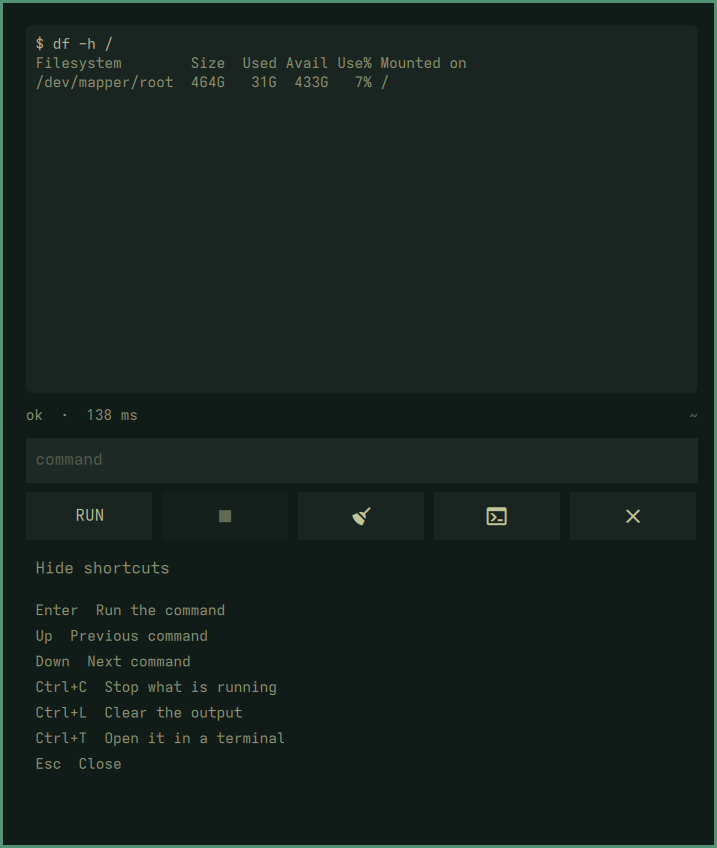
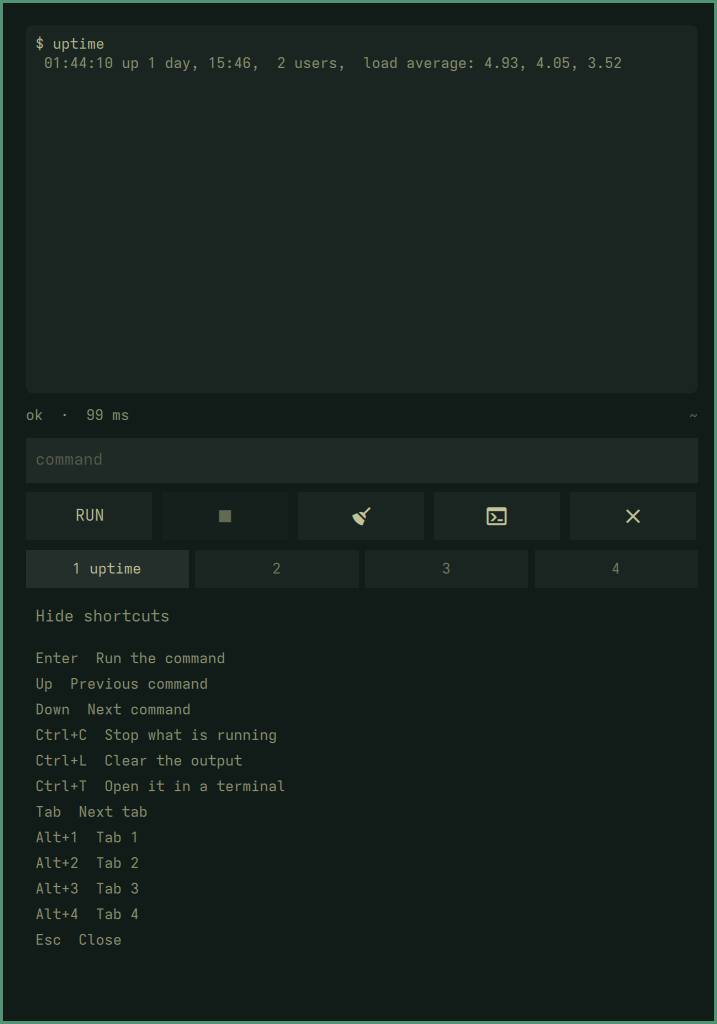
Retake the screenshots for the tab strip
Claude-Session: https://claude.ai/code/session_01NsuTX3xQbZ1pzCFMGiucjP

diff --git a/DEVELOPING.md b/DEVELOPING.md
@@ -8,8 +8,9 @@ An Omarchy shell plugin: a bar widget that runs a command and shows what it said
 id `io.github.swey-l1.bar-term`, kind `bar-widget`. Everything that executes anything is
 in the `bar-term` script; the QML only asks it for things.
 
-- `Panel.qml`: the bar widget: the icon, the command history, and the model everything
-  reads through `panel`. It *is* a `Theme.qml`, which holds palette and metrics.
+- `Panel.qml`: the bar widget: the icon, the sessions and which tab is active, and the
+  model everything reads through `panel`. It *is* a `Theme.qml`, which holds palette and
+  metrics.
 - `Pad.qml`: the popup: scrollback, prompt, keys, tab strip, hint line, key catcher.
 - `TabButton.qml`: one tab in that strip, and the three things it has to show.
 - `Bindings.qml`: `keyMap`, the single definition of every key binding.
@@ -29,7 +30,7 @@ in the `bar-term` script; the QML only asks it for things.
 ```sh
 ./bar-term status                        # up | notool
 WORKDIR=/tmp ./bar-term run ls           # what the widget does, from a terminal
-./test/bar-term.sh                       # 15 cases, no compositor needed
+./test/bar-term.sh                       # 16 cases, no compositor needed
 /usr/lib/qt6/bin/qmllint *.qml 2>&1 | grep -E '^Error'
 omarchy plugin validate .
 omarchy plugin update io.github.swey-l1.bar-term --yes       # pull commits into the install

diff --git a/README.md b/README.md
@@ -4,7 +4,7 @@ A command line in the Omarchy bar. Click the icon, type a command, read what it 
 carry on with whatever you were doing.
 
 <p align="center">
-  <img src="docs/pad.png" alt="The pad: a command and its output, with the result line beneath" width="420">
+  <img src="docs/pad.png" alt="The pad: a command and its output, the result line, and the tab strip" width="420">
 </p>
 
 It is for the commands that are not worth a terminal window: a `git log`, a `df -h`, a
@@ -56,7 +56,7 @@ The prompt has the keyboard as soon as the pad opens, so you can type straight a
 Everything else you press is typing, which is why the list above is mostly modified keys.
 
 <p align="center">
-  <img src="docs/shortcuts.png" alt="The pad with the keyboard shortcut list open" width="420">
+  <img src="docs/shortcuts.png" alt="The pad with every keyboard shortcut listed" width="420">
 </p>
 
 **Ctrl+T** is the way out of the pad's limits: it hands what you typed to a real terminal,
